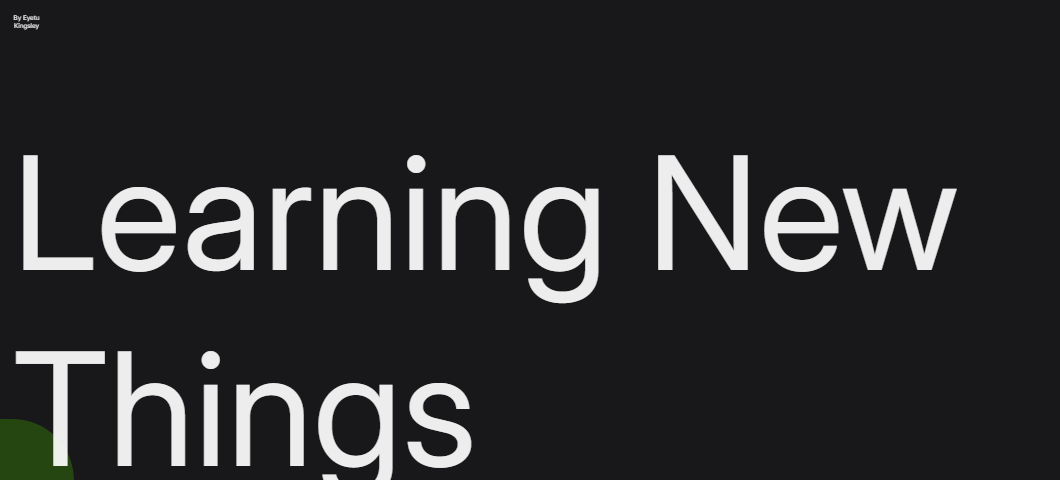
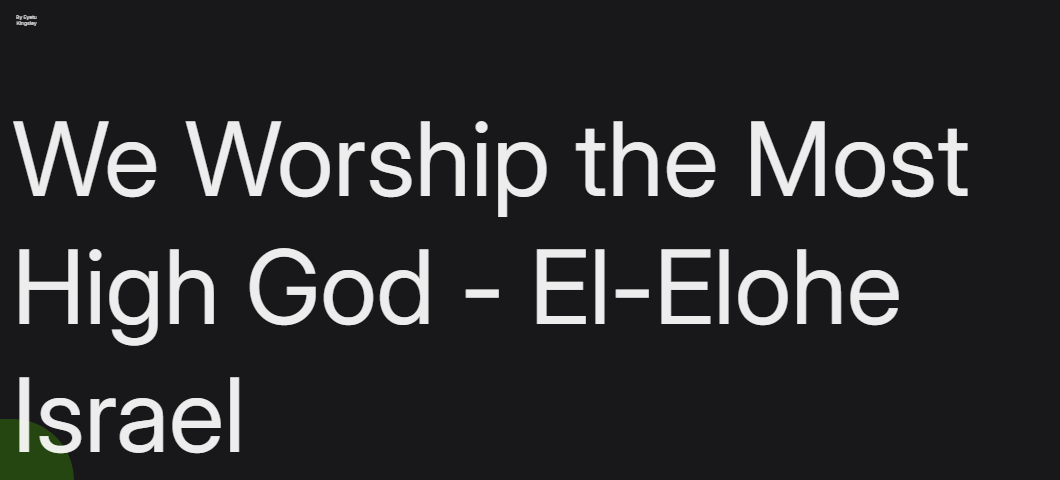
added default song & scripture text

Changed region(s): [[0.0, 0.25, 0.934, 1.0], [0.0, 0.0312, 0.0623, 0.0625], [0.4358, 0.5938, 0.467, 0.625]]

diff --git a/src/components/app/editor/ui/Text.tsx b/src/components/app/editor/ui/Text.tsx
@@ -84,6 +84,9 @@ enum LINKAGES {
 
 export default function EditorText(props: EditorContainer) {
 	const {
+		getters: { getDemoLyric, getDemoScripture },
+	} = useEditor();
+	const {
 		node,
 		register,
 		styles,
@@ -91,6 +94,27 @@ export default function EditorText(props: EditorContainer) {
 		actions: { setStyle },
 	} = useNode();
 	const domId = createMemo(() => "node-text-" + node.id?.replaceAll("-", ""));
+
+	const textArr: Accessor<string[]> = createMemo(() => {
+		console.log(
+			"getting all text",
+			node.data.linkage,
+			getDemoLyric(),
+			getDemoScripture(),
+		);
+		if (node.data.linkage === LINKAGES.CUSTOM) {
+			return [node.data.text] as string[];
+		} else {
+			if (node.data.linkage === LINKAGES.SONG_LYRIC) {
+				return getDemoLyric().text;
+			} else if (node.data.linkage === LINKAGES.SCRIPTURE_TEXT) {
+				return [getDemoScripture().text];
+			} else if (node.data.linkage === LINKAGES.SCRIPTURE_REFERENCE) {
+				return [getReference(getDemoScripture())];
+			}
+			return [];
+		}
+	});
 
 	const dynamicSizeUpdate = ({
 		parent,
@@ -120,7 +144,7 @@ export default function EditorText(props: EditorContainer) {
 	};
 
 	createEffect(() => {
-		if (node.data.autoResize) {
+		if (node.data.autoResize && textArr()) {
 			const trackChanges = node.style.width && node.style.height;
 			console.log("Resizing Element: ");
 			TextFill("#" + domId(), {
@@ -141,11 +165,11 @@ export default function EditorText(props: EditorContainer) {
 			id={domId()}
 		>
 			<Text userSelect="none" w="full" h="full">
-				<For each={node.data.text.split(" ")}>
-					{(te, index) => (
+				<For each={textArr()}>
+					{(line, index) => (
 						<>
-							{te}
-							<Show when={index() !== node.data.text.split(" ").length - 1}>
+							{line}
+							<Show when={index() < textArr().length - 1}>
 								<br />
 							</Show>
 						</>
@@ -213,7 +237,7 @@ export function RenderEditorText(props: RenderEditorItemProps) {
 					{(line, index) => (
 						<>
 							{line}
-							<Show when={index() !== textArr().length - 1}>
+							<Show when={index() < textArr().length - 1}>
 								<br />
 							</Show>
 						</>

diff --git a/src/components/app/editor/Editor.tsx b/src/components/app/editor/Editor.tsx
@@ -33,6 +33,7 @@ import EditorContext from "./EditorContext";
 import { createStore, produce, unwrap } from "solid-js/store";
 import type { EditorStore } from "./editor-types";
 import { createId, transformEditorComp } from "~/utils";
+import { defaultLyric, defaultScripture } from "~/utils/constants";
 
 interface Props extends ParentProps {
 	renderMap: EditorRenderMap;
@@ -52,6 +53,10 @@ export default function Editor(props: Props) {
 			selectNode: [],
 			dragNode: [],
 		},
+		demos: {
+			scripture: defaultScripture,
+			lyric: defaultLyric,
+		},
 	});
 	const canRender = (compName: string) =>
 		Object.keys(props.renderMap).includes(compName);
@@ -63,6 +68,9 @@ export default function Editor(props: Props) {
 		return editor.selectedId ? editor.nodes[editor.selectedId] : null;
 	});
 	const getRenderMap = () => props.renderMap;
+
+	const getDemoScripture = () => editor.demos.scripture;
+	const getDemoLyric = () => editor.demos.lyric;
 
 	const selectNode: SelectNodeFn = (id) => {
 		console.log("FORMER ID: ", editor.selectedId, id);
@@ -238,6 +246,8 @@ export default function Editor(props: Props) {
 			getRootRef,
 			getSelectedNode,
 			getRenderMap,
+			getDemoScripture,
+			getDemoLyric,
 		},
 		setters: { setRootRef, setNodeStyle, setNodeData },
 		hooks: { useSelect: useNodeSelect, useNodeDrag, useResizeNode },

diff --git a/src/utils/constants.ts b/src/utils/constants.ts
@@ -1,9 +1,10 @@
-import type { OpenEditData } from "~/types";
+import type { OpenEditData, ScriptureVerse } from "~/types";
 import type {
 	AppSettings,
 	AppData,
 	GroupCollectionObj,
 } from "~/types/app-context";
+import type { SongLyric } from "~/types/context";
 
 export const DEFAULT_SCRIPTURE_COLLECTION_ID = 1;
 export const defaultPalette = "purple";
@@ -16,6 +17,20 @@ export const defaultThemeKeys = [
 	"scriptureTheme",
 	"presentationTheme",
 ] as const;
+export const defaultScripture: ScriptureVerse = {
+	scripture_id: 175170,
+	bible_id: 6,
+	book_id: 43,
+	book_name: "joshua",
+	chapter: 1,
+	verse: 8,
+	text: "This Book of the Law shall not depart from your mouth, but you shall meditate in it day and night, that you may observe to do according to all that is written in it. For then you will make your way prosperous, and then you will have good success.",
+	version: "NKJV",
+};
+export const defaultLyric: SongLyric = {
+	label: "Song of the Ages",
+	text: ["We Worship the Most High God - El-Elohe Israel"],
+};
 
 const DEFAULT_GROUPS: GroupCollectionObj = {
 	song: {

diff --git a/src/components/app/editor/editor-types.ts b/src/components/app/editor/editor-types.ts
@@ -1,5 +1,7 @@
 import type { Accessor, JSX, JSXElement, Setter } from "solid-js";
 import type { FullGestureState } from "@use-gesture/core/types";
+import type { ScriptureVerse } from "~/types";
+import type { SongLyric } from "~/types/context";
 
 export type NodeId = string | undefined | null;
 
@@ -28,6 +30,10 @@ export interface EditorStore {
 	handlers: {
 		selectNode: NodeSelectHandler[];
 		dragNode: NodeDragEventHandler[];
+	};
+	demos: {
+		scripture: ScriptureVerse;
+		lyric: SongLyric;
 	};
 }
 
@@ -113,6 +119,8 @@ export interface EditorContextValue {
 		getRootRef: Accessor<HTMLElement | undefined>;
 		getSelectedNode: Accessor<EditorNode | null>;
 		getRenderMap: Accessor<EditorRenderMap>;
+		getDemoScripture: Accessor<ScriptureVerse>;
+		getDemoLyric: Accessor<SongLyric>;
 	};
 	setters: {
 		setRootRef: (ref: HTMLElement) => void;
